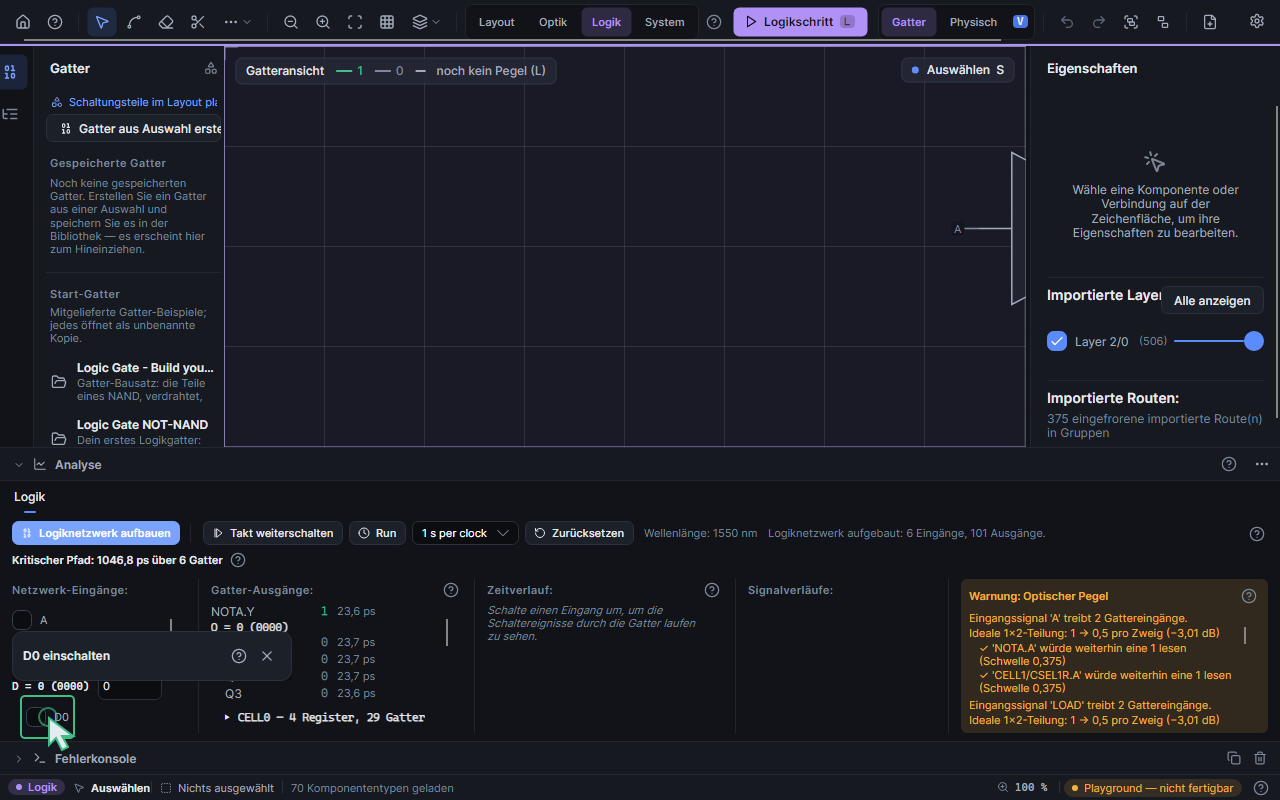
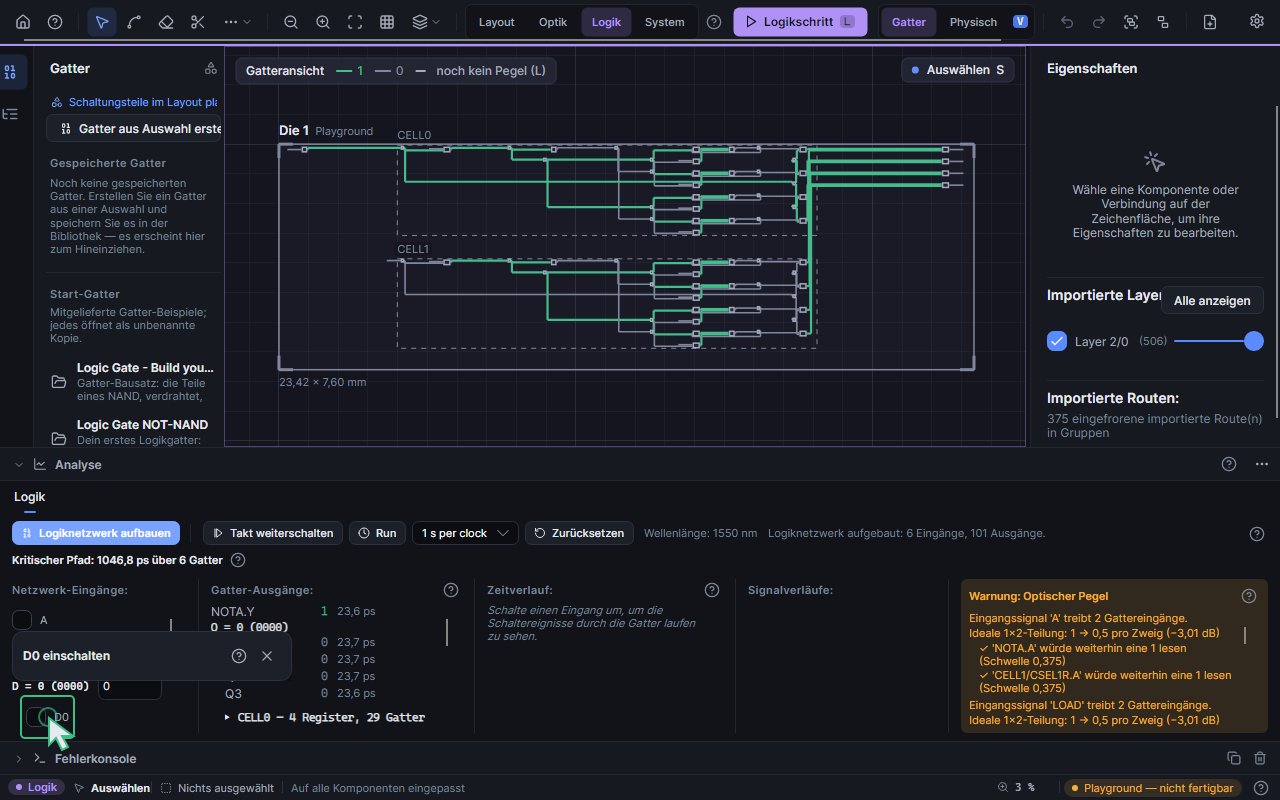
fix: frame learning examples after their analysis dock opens

diff --git a/UnitTests/UI/Flows/StoreNumberLearningJourneyTests.cs b/UnitTests/UI/Flows/StoreNumberLearningJourneyTests.cs
@@ -8,7 +8,6 @@ using CAP.Avalonia.Services.Localization;
 using CAP.Avalonia.ViewModels.Onboarding.FirstStepsTutorial;
 using CAP.Avalonia.Views.Panels;
 using UnitTests.Integration;
-using UnitTests.Integration.RamScale;
 using Moq;
 
 namespace UnitTests.UI.Flows;
@@ -26,16 +25,20 @@ public class StoreNumberLearningJourneyTests
         var vm = host.Vm;
         window.Width = 1280; window.Height = 800;
         LocalizationService.Instance.SetLanguage(language);
-        var fileOps = Ram4x4FeasibilityTests.CreateFileOperations(vm.Canvas);
-        Assert.True(await fileOps.LoadDesignFromPathAsync(Path.Combine(
-            ExampleDesignFilesTests.ExamplesDirectory(), StoreNumberTourViewModel.RamExampleFileName)));
-        await fileOps.PostLoadRouting;
+        foreach (var template in TestPdkLoader.LoadAllTemplates())
+            vm.LeftPanel.AllTemplates.Add(template);
+        await vm.Home.StoreNumberTourCommand.ExecuteAsync(null);
+        await vm.FileOperations.PostLoadRouting;
         var tour = vm.StoreNumberTour;
         var logic = vm.RightPanel.Logic;
-        tour.Start();
+        Assert.True(tour.IsActive);
         await Settle();
         var overlay = UiInput.Descendants<TourAnchorOverlay>(window).Single(o => o.Card is StoreNumberTourPanel);
         Assert.True(overlay.Demonstrate);
+        var canvasControl = UiInput.Descendants<CAP.Avalonia.Controls.DesignCanvas>(window).First();
+        var bounds = CAP.Avalonia.ViewModels.Canvas.DieSurface.ZoomToFitTarget.Resolve(vm.Canvas, false, null)!.Value;
+        Assert.InRange(bounds.MinY * canvasControl.Zoom + vm.Canvas.PanY, 0, canvasControl.Bounds.Height);
+        Assert.InRange(bounds.MaxY * canvasControl.Zoom + vm.Canvas.PanY, 0, canvasControl.Bounds.Height);
         Save("build");
         Click("LogicBuildButton");
         for (var i = 0; i < 100 && !logic.HasNetwork; i++) { await Task.Delay(20); UiInput.RunJobs(); }
@@ -83,6 +86,27 @@ public class StoreNumberLearningJourneyTests
             bitmap.Save(Path.Combine(dir, $"{language}-{step}.png"));
         }
     }
+    [AvaloniaTheory]
+    [InlineData("skip")]
+    [InlineData("workspace")]
+    [InlineData("design")]
+    public async Task PendingInitialFit_DoesNotMoveAChangedContext(string change)
+    {
+        using var host = new UiFlowTestHost();
+        var vm = host.Vm;
+        foreach (var template in TestPdkLoader.LoadAllTemplates())
+            vm.LeftPanel.AllTemplates.Add(template);
+        await vm.Home.StoreNumberTourCommand.ExecuteAsync(null);
+        if (change == "skip") vm.StoreNumberTour.Skip();
+        if (change == "workspace") vm.WorkspaceSwitch.Current = CAP.Avalonia.ViewModels.Workspaces.Workspace.Layout;
+        if (change == "design") vm.Canvas.Components.Clear();
+        vm.Canvas.PanX = 123; vm.Canvas.PanY = 456;
+        var zoom = vm.ViewportControl.ZoomLevel;
+        UiInput.RunJobs();
+        Assert.Equal(123, vm.Canvas.PanX);
+        Assert.Equal(456, vm.Canvas.PanY);
+        Assert.Equal(zoom, vm.ViewportControl.ZoomLevel);
+    }
     [AvaloniaFact]
     public async Task CancelExampleOpenPreservesUnsavedDesign()
     {
@@ -92,7 +116,13 @@ public class StoreNumberLearningJourneyTests
         prompt.Setup(p => p.ShowSavePromptAsync(Moq.It.IsAny<string>(), Moq.It.IsAny<string>()))
             .ReturnsAsync(CAP.Avalonia.Services.SavePromptResult.Cancel);
         host.Vm.FileOperations.MessageBoxService = prompt.Object;
+        host.Vm.Canvas.PanX = 123; host.Vm.Canvas.PanY = 456;
+        var zoom = host.Vm.ViewportControl.ZoomLevel;
         await host.Vm.Home.StoreNumberTourCommand.ExecuteAsync(null);
+        UiInput.RunJobs();
+        Assert.Equal(123, host.Vm.Canvas.PanX);
+        Assert.Equal(456, host.Vm.Canvas.PanY);
+        Assert.Equal(zoom, host.Vm.ViewportControl.ZoomLevel);
         Assert.Contains(part, host.Vm.Canvas.Components);
         Assert.True(host.Vm.FileOperations.HasUnsavedChanges);
         Assert.False(host.Vm.StoreNumberTour.IsActive);

diff --git a/CAP.Avalonia/ViewModels/MainViewModel.LearningViewport.cs b/CAP.Avalonia/ViewModels/MainViewModel.LearningViewport.cs
@@ -1,0 +1,22 @@
+using Avalonia.Threading;
+
+namespace CAP.Avalonia.ViewModels;
+
+public partial class MainViewModel
+{
+    // Loading fits before the chapter opens its analysis dock. Fit once more after
+    // layout so the chosen example is framed in the viewport the learner will use.
+    private void FitStartedLearningJourney(Func<bool> isActive)
+    {
+        var components = Canvas.Components.ToArray();
+        var workspace = WorkspaceSwitch.Current;
+        Dispatcher.UIThread.Post(() =>
+        {
+            if (!isActive() || WorkspaceSwitch.Current != workspace ||
+                !Canvas.Components.SequenceEqual(components))
+                return;
+            var (width, height) = ViewportControl.GetViewportSize?.Invoke() ?? (900, 800);
+            ViewportControl.ZoomToFit(width, height);
+        }, DispatcherPriority.Loaded);
+    }
+}

diff --git a/CAP.Avalonia/ViewModels/MainViewModel.cs b/CAP.Avalonia/ViewModels/MainViewModel.cs
@@ -1115,6 +1115,7 @@ public partial class MainViewModel : ObservableObject
             return;
 
         WatchTour.Start();
+        FitStartedLearningJourney(() => WatchTour.IsActive);
     }
 
     /// <summary>
@@ -1134,6 +1135,7 @@ public partial class MainViewModel : ObservableObject
             return;
 
         RunProgramTour.Start();
+        FitStartedLearningJourney(() => RunProgramTour.IsActive);
     }
 
     /// <summary>
@@ -1172,6 +1174,7 @@ public partial class MainViewModel : ObservableObject
             return;
 
         StoreNumberTour.Start();
+        FitStartedLearningJourney(() => StoreNumberTour.IsActive);
     }
 
     /// <summary>

diff --git a/docs/RELEASE-CHECKLIST.md b/docs/RELEASE-CHECKLIST.md
@@ -319,4 +319,4 @@ Every PR that adds, removes, or materially changes a user-facing feature must up
 
 - [ ] Connect two chiplets guidance: Skip/completion releases the receiver position subscription; restarting records a fresh baseline without duplicate handlers.
 
-- [ ] Store a number guidance points at the actual D0, LOAD and A checkboxes; a fresh clock write (including the same word), LOAD off and address away/back are required. Missing controls offer explicit recovery; Skip and input Reset release observers. Verify English/German real-click flow and unsaved-example cancellation.
+- [ ] Store a number guidance points at the actual D0, LOAD and A checkboxes; a fresh clock write (including the same word), LOAD off and address away/back are required. Missing controls offer explicit recovery; Skip and input Reset release observers. Verify English/German real-click flow and unsaved-example cancellation. Store/Watch/ISA example starts fit once after the analysis dock opens; cancelled or superseded starts preserve the current viewport.
